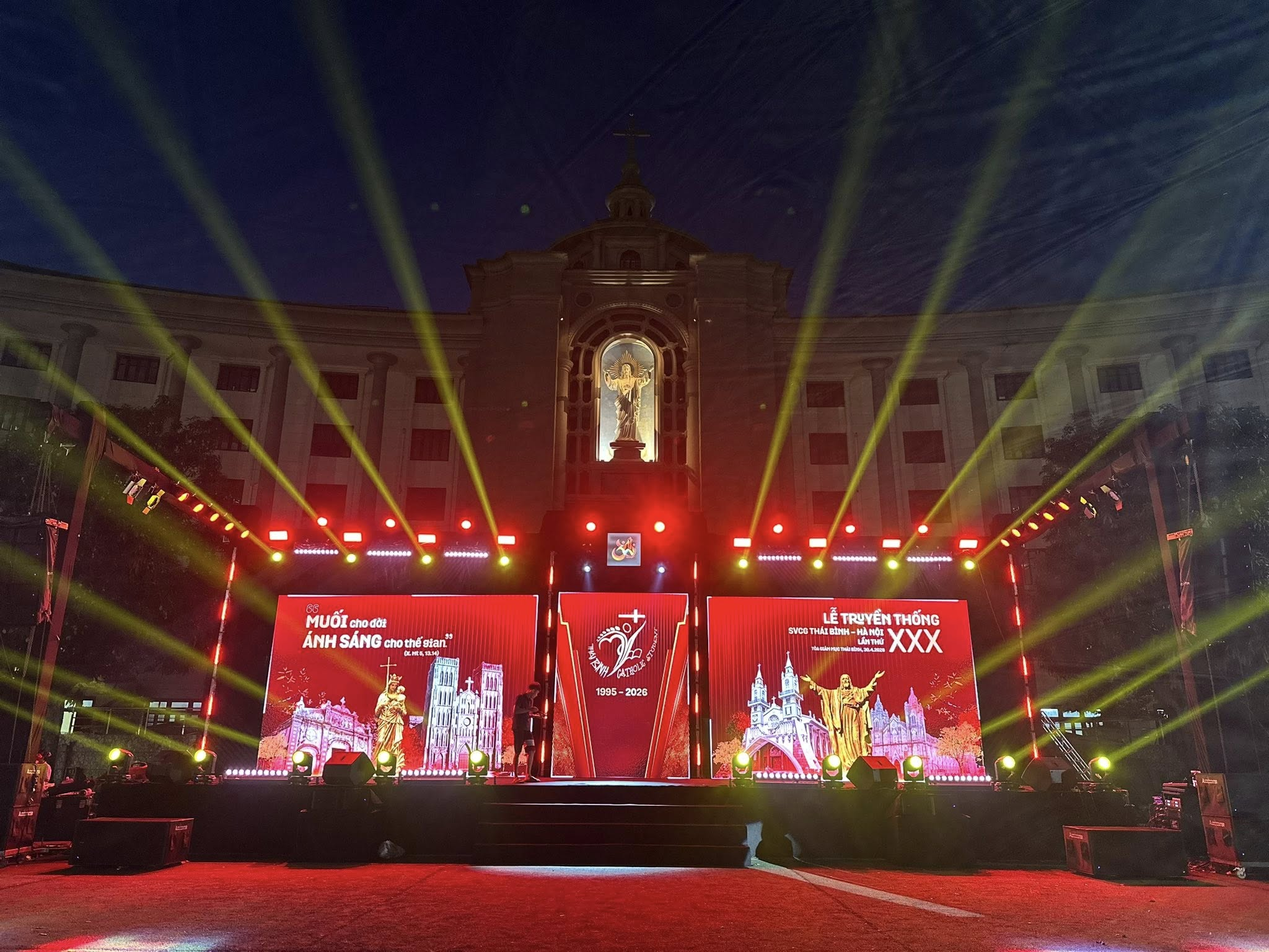
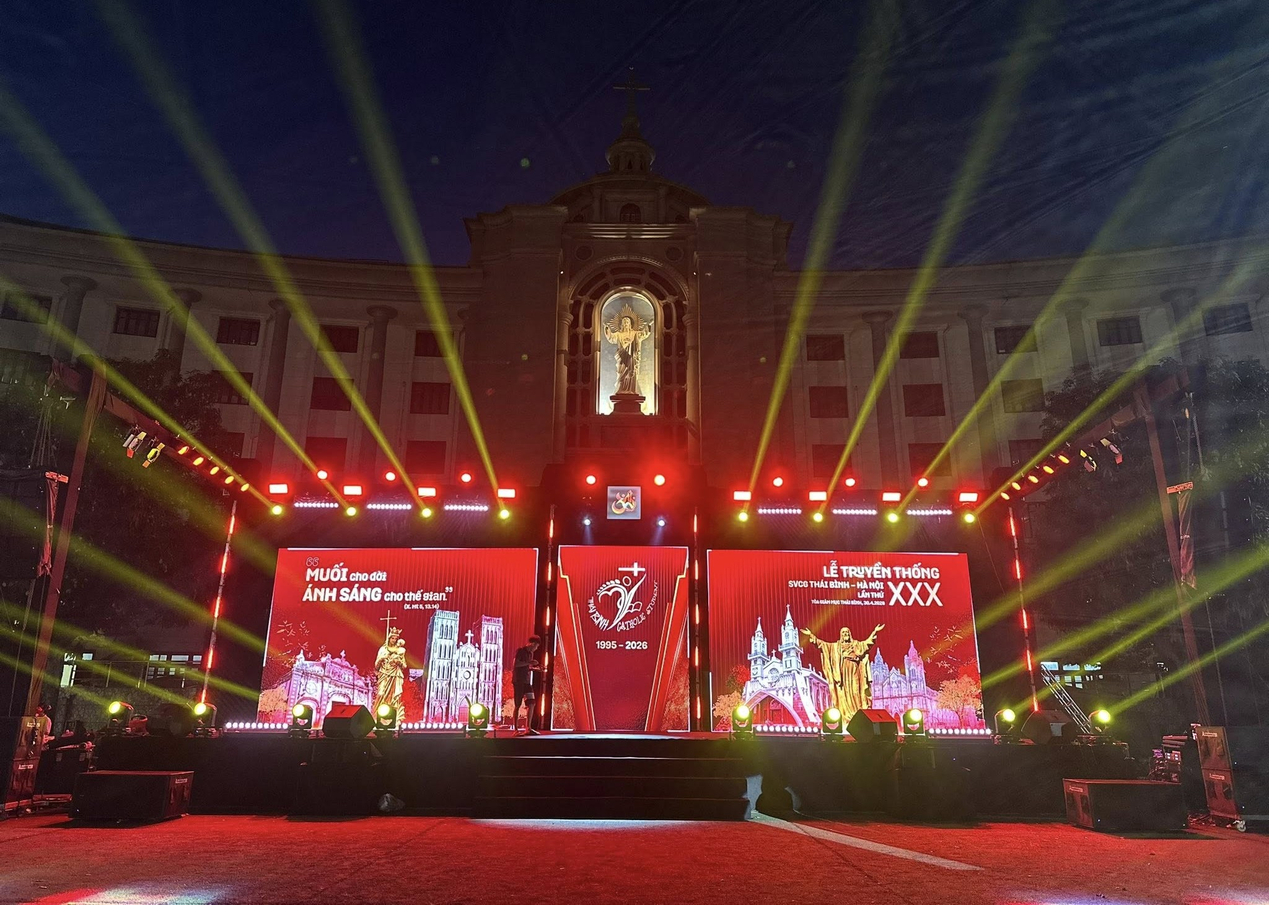
update UI

diff --git a/index.html b/index.html
@@ -201,6 +201,12 @@
     <h2 class="section-title reveal" data-delay="1">Cảm xúc &amp; chuyên nghiệp</h2>
   </div>
   <div class="home-showcase-masonry" id="homeShowcaseGrid">
+    <button type="button" class="home-showcase-tile reveal" data-full-src="/assets/images/du-an/chung/team-ket-noi.jpg" data-caption="Team · Kết nối" aria-label="Mở ảnh lớn: Team · Kết nối">
+      <img src="/assets/images/du-an/chung/team-ket-noi.jpg" alt="" width="900" height="1200" loading="lazy" decoding="async">
+      <span class="home-showcase-tile__scrim" aria-hidden="true"></span>
+      <span class="home-showcase-tile__glow" aria-hidden="true"></span>
+      <span class="home-showcase-tile__cap">Team · Kết nối</span>
+    </button>
     <button type="button" class="home-showcase-tile reveal" data-full-src="/assets/images/du-an/am-thanh-anh-sang/3X1A2613.jpg" data-caption="Sân khấu · Ánh sáng" aria-label="Mở ảnh lớn: Sân khấu · Ánh sáng">
       <img src="/assets/images/du-an/am-thanh-anh-sang/3X1A2613.jpg" alt="" width="900" height="1200" loading="lazy" decoding="async">
       <span class="home-showcase-tile__scrim" aria-hidden="true"></span>
@@ -225,12 +231,6 @@
       <span class="home-showcase-tile__glow" aria-hidden="true"></span>
       <span class="home-showcase-tile__cap">Ánh sáng beam</span>
     </button>
-    <button type="button" class="home-showcase-tile reveal" data-full-src="/assets/images/du-an/chung/team-ket-noi.jpg" data-caption="Team · Kết nối" aria-label="Mở ảnh lớn: Team · Kết nối">
-      <img src="/assets/images/du-an/chung/team-ket-noi.jpg" alt="" width="900" height="1200" loading="lazy" decoding="async">
-      <span class="home-showcase-tile__scrim" aria-hidden="true"></span>
-      <span class="home-showcase-tile__glow" aria-hidden="true"></span>
-      <span class="home-showcase-tile__cap">Team · Kết nối</span>
-    </button>
     <button type="button" class="home-showcase-tile reveal" data-full-src="/assets/images/du-an/chung/truong-hoc-su-kien.jpg" data-caption="Trường học · Sự kiện" aria-label="Mở ảnh lớn: Trường học · Sự kiện">
       <img src="/assets/images/du-an/chung/truong-hoc-su-kien.jpg" alt="" width="900" height="1200" loading="lazy" decoding="async">
       <span class="home-showcase-tile__scrim" aria-hidden="true"></span>
@@ -243,8 +243,8 @@
       <span class="home-showcase-tile__glow" aria-hidden="true"></span>
       <span class="home-showcase-tile__cap">Khai trương</span>
     </button>
-    <button type="button" class="home-showcase-tile reveal" data-full-src="/assets/images/du-an/am-thanh-anh-sang/led-san-khau.jpg" data-caption="LED & sân khấu" aria-label="Mở ảnh lớn: LED & sân khấu">
-      <img src="/assets/images/du-an/am-thanh-anh-sang/led-san-khau.jpg" alt="" width="900" height="1200" loading="lazy" decoding="async">
+    <button type="button" class="home-showcase-tile reveal" data-full-src="/assets/images/du-an/chung/led-san-khau.jpg" data-caption="LED & sân khấu" aria-label="Mở ảnh lớn: LED & sân khấu">
+      <img src="/assets/images/du-an/chung/led-san-khau.jpg" alt="" width="900" height="1200" loading="lazy" decoding="async">
       <span class="home-showcase-tile__scrim" aria-hidden="true"></span>
       <span class="home-showcase-tile__glow" aria-hidden="true"></span>
       <span class="home-showcase-tile__cap">LED & sân khấu</span>
